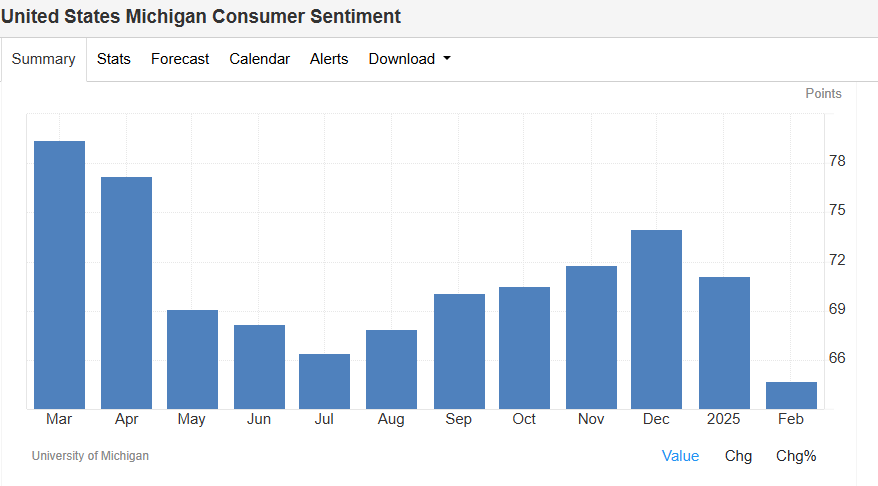
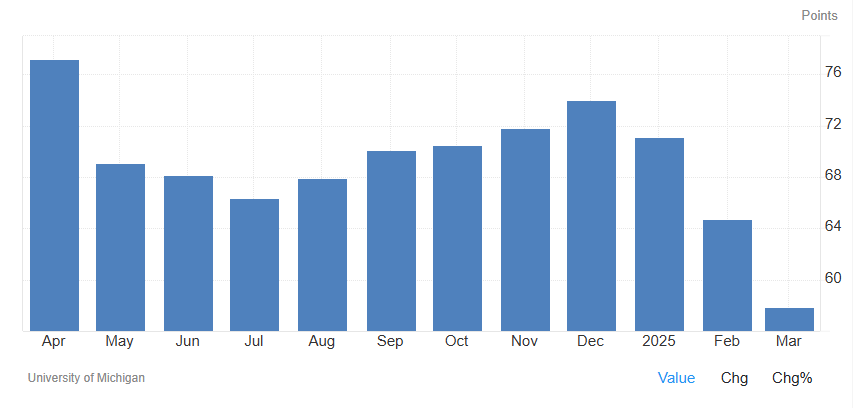
update um

diff --git a/crablox/hauls/h_um_ics.py b/crablox/hauls/h_um_ics.py
@@ -1,34 +1,35 @@
-from fasthtml.common import Div, Img, P
-
-from bot import get_rows_format_1
-from . import wrap
-from .render import render
-from .h_um_cmp import content as cmp_content
-from .h_um_prc import content as prc_content
+from fasthtml.common import A, Card, Div, Img, Li, P, Ul
 
 id = "UmIndex"
-url = "http://www.sca.isr.umich.edu/files/tbcics.csv"
+url = " http://www.sca.isr.umich.edu/"
 path = "/um/index"
-title = "Sentiment · 64.7"
-summary = "from a preliminary of 67.8, reaching the lowest level since November 2023. 19% plunge in buying conditions for durables. Inflation expectations year-ahead soared to 4.3%"
-details = Div(
-    P(
-        Img(
-            src="/static/um-index.png",
-            alt="United States Michigan Consumer Sentiment",
-            cls="cbx_image",
-            title=summary,
-        ),
-        onclick="openLightbox(this)",
-    ),
-    Div(
-        """
-# 64.7
+title = "Sentiment · 57.9"
+caption = "US Michigan Consumer Sentiment"
+summary = "Current conditions fell to 53.5 from 65.7, while expectations dropped to 54.2 from 64.0"
+markup = """
+# 🚨 57.9
 ## The Index of Consumer Sentiment
+#### Sentiment Drags to Multi-Year Lows
 
-### Consumer Sentiment Dropped: Inflation Alert
+### Preliminary Results for March 2025
 
-#### 21 February 2025
+Just got the latest Michigan numbers and they crashed to 57.9 in March, the lowest we've seen since November 2022. This is way below the 63.1 forecast and marks the third straight monthly decline.
+
+Current conditions fell to 53.5 from 65.7, while expectations dropped to 54.2 from 64.0.
+
+What's particularly concerning is the inflation outlook - year-ahead expectations shot up to 4.9% (highest since late 2022) and the five-year gauge jumped to 3.9%, marking the largest monthly increase since 1993.
+
+The political divide continues to widen dramatically.
+<a href="https://data.sca.isr.umich.edu/fetchdoc.php?docid=78161" target="_blank">Looking at our data</a>,
+Democratic sentiment has absolutely collapsed to 41.4 in March from 51.3 in February, while Republican sentiment held relatively steady at 83.9. Independents are sliding too, down to 57.2.
+
+This sentiment crash has real trading implications. We're approaching levels typically seen during recessions, and the combination of deteriorating expectations with rising inflation fears screams stagflation. The Fed is in a tough spot with these inflation expectations - rate cuts might be off the table longer than markets expect.
+
+💰 TRADING IMPLICATIONS
+
+This adds another layer of context and creativity for both shorts and longs. If liberal consumers are spending the least, this is another tailrisk for companies who have built a brand around this demographic. Think about which names in retail, consumer discretionary, and even tech for example might be exposed to this demographic spending pullback. The reverse for longs.
+
+### 21 February 2025
 
 📈 The February UMCSI reading just came in and it's ugly. Headline sentiment dropped to 64.7 (from preliminary 67.8), hitting the lowest level since November 2023.
 
@@ -73,7 +74,10 @@ Current conditions vs expectations spread widening too. Consumers feel OK now bu
 Fed won't like this print on top of the Prices segment of Services ISM going higher too.
 
 There is risk we might not even see another rate cut or two this year now based on these two leading indicators.
-""",
+"""
+details = (
+    Div(
+        markup,
         cls="marked",
     ),
     P(
@@ -84,17 +88,33 @@ There is risk we might not even see another rate cut or two this year now based 
         ),
         onclick="openLightbox(this)",
     ),
+    P(
+        Img(
+            src="/static/um-index-data.png",
+            alt="UM Index Data",
+            cls="cbx_image",
+        ),
+        onclick="openLightbox(this)",
+    ),
 )
 
 
 def content():
-
-    card, chart = render(url, ("Index",), details, get_rows_format_1)
-
-    return wrap(
-        id,
-        card,
-        chart,
-        cmp_content(),
-        prc_content(),
+    return (
+        Div(
+            Img(
+                src="/static/um-index.png",
+                alt=caption,
+                cls="cbx_image",
+                title=summary,
+            ),
+            onclick="openLightbox(this)",
+        ),
+        Card(
+            details,
+            cls="wlv-details",
+            footer=Ul(
+                Li(A(url, href=url, target="_blank")),
+            ),
+        ),
     )

diff --git a/crablox/hauls/__init__.py b/crablox/hauls/__init__.py
@@ -1,5 +1,4 @@
-from . import h_bls_esr, h_ism_mfg, h_ism_srv, h_bld_permits, h_cmc_btc, h_gdp
-from .um import h_um_ics
+from . import h_bls_esr, h_ism_mfg, h_ism_srv, h_bld_permits, h_cmc_btc, h_gdp, h_um_ics
 
 
 blocks = [
